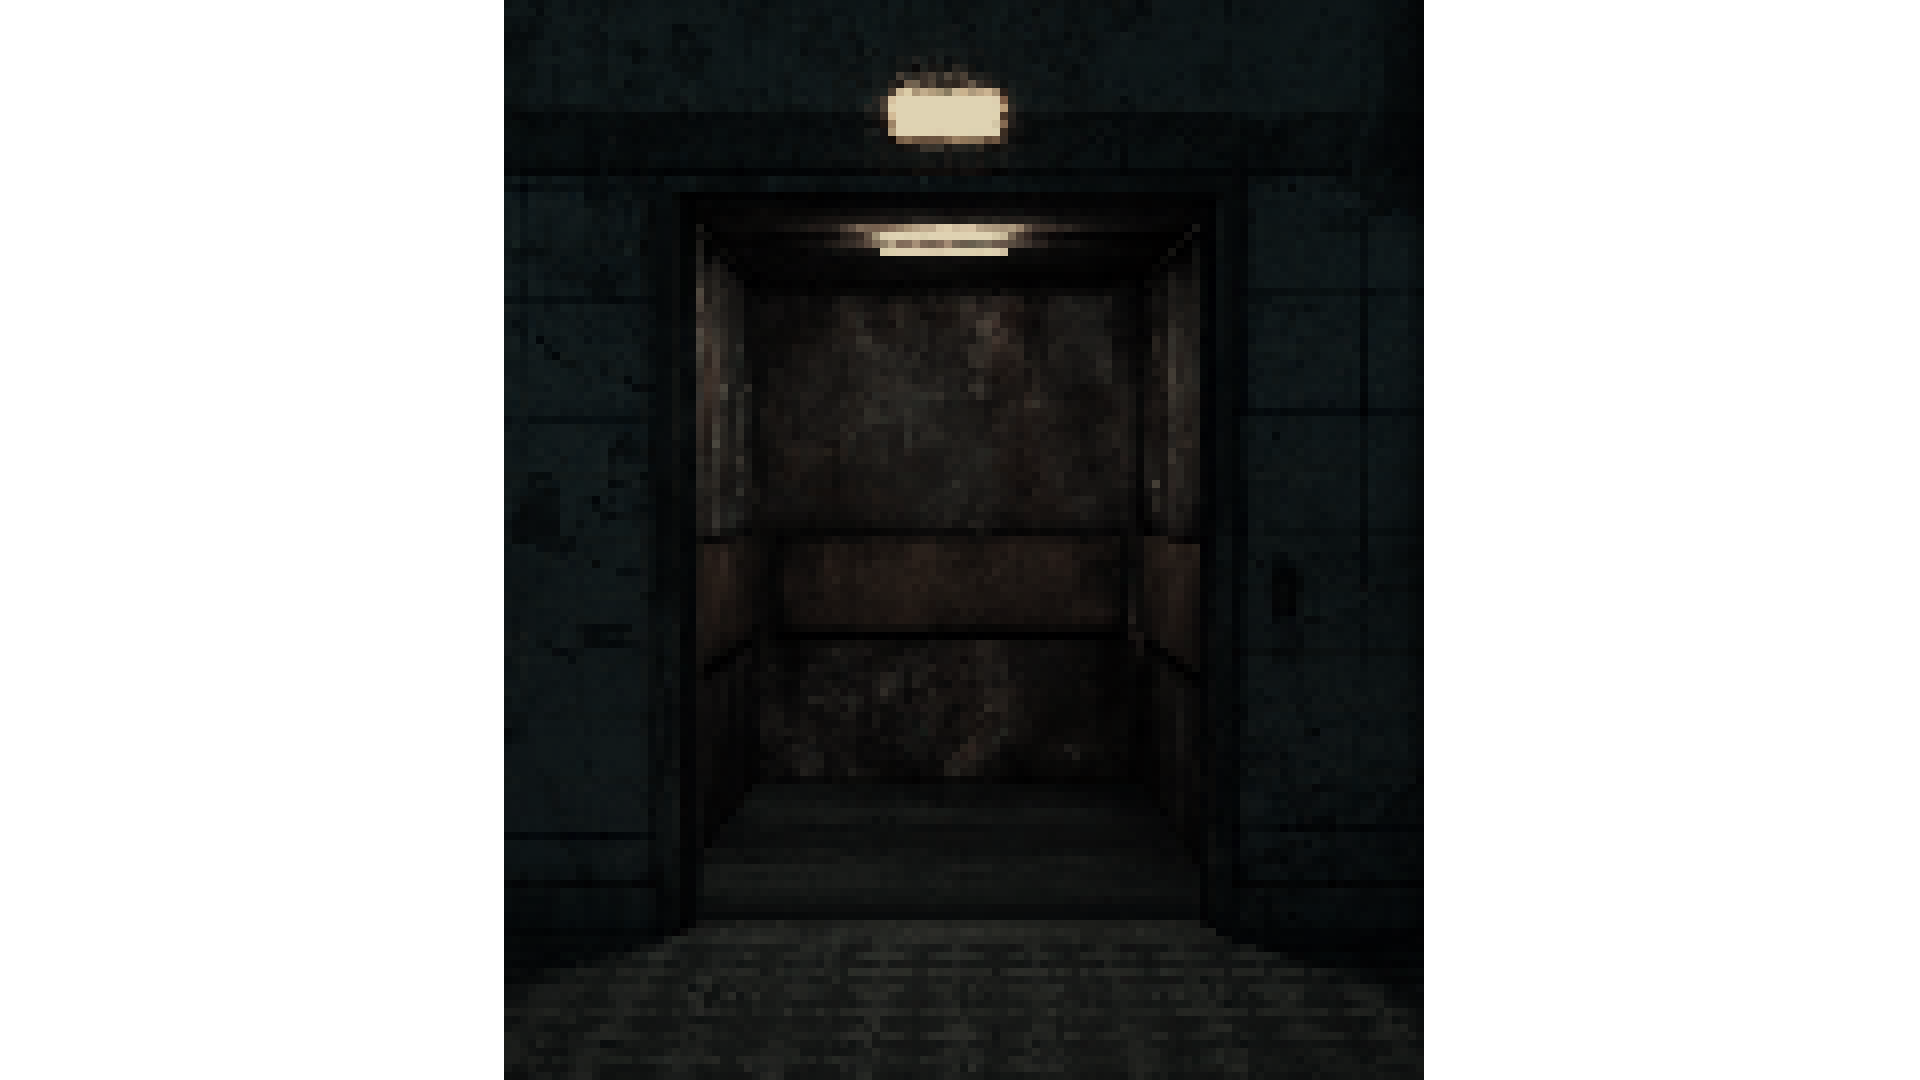
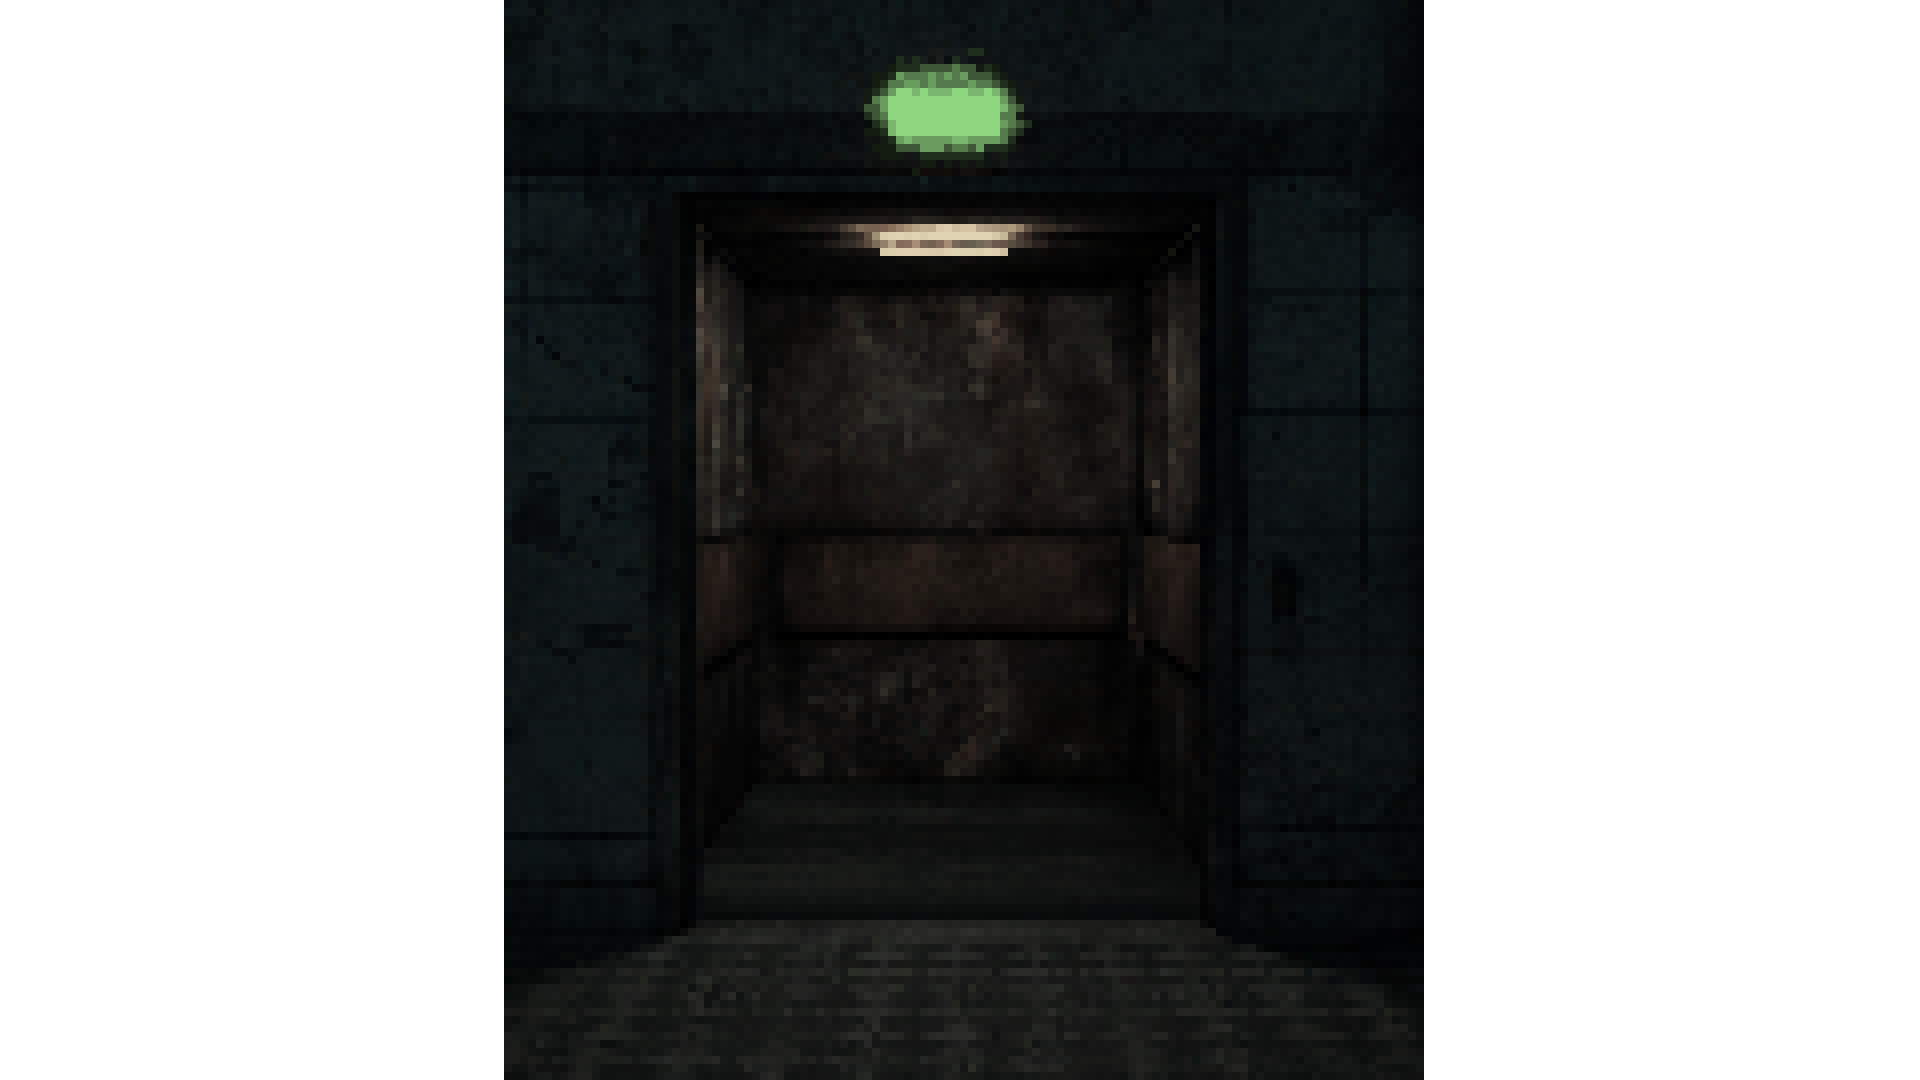
added more graphical elements. completed movement system.

Changed region(s): [[0.4375, 0.0611, 0.5312, 0.1528]]

diff --git a/Assets/Scripts/GameTracker.cs b/Assets/Scripts/GameTracker.cs
@@ -24,7 +24,6 @@ public class GameTracker : MonoBehaviour
     public GameObject Mary;
     public GameObject Elevator;
     public GameObject Lab;
-    public GameObject[] Icons;
     public GameObject mapScreen;
 
     // Start is called before the first frame update
